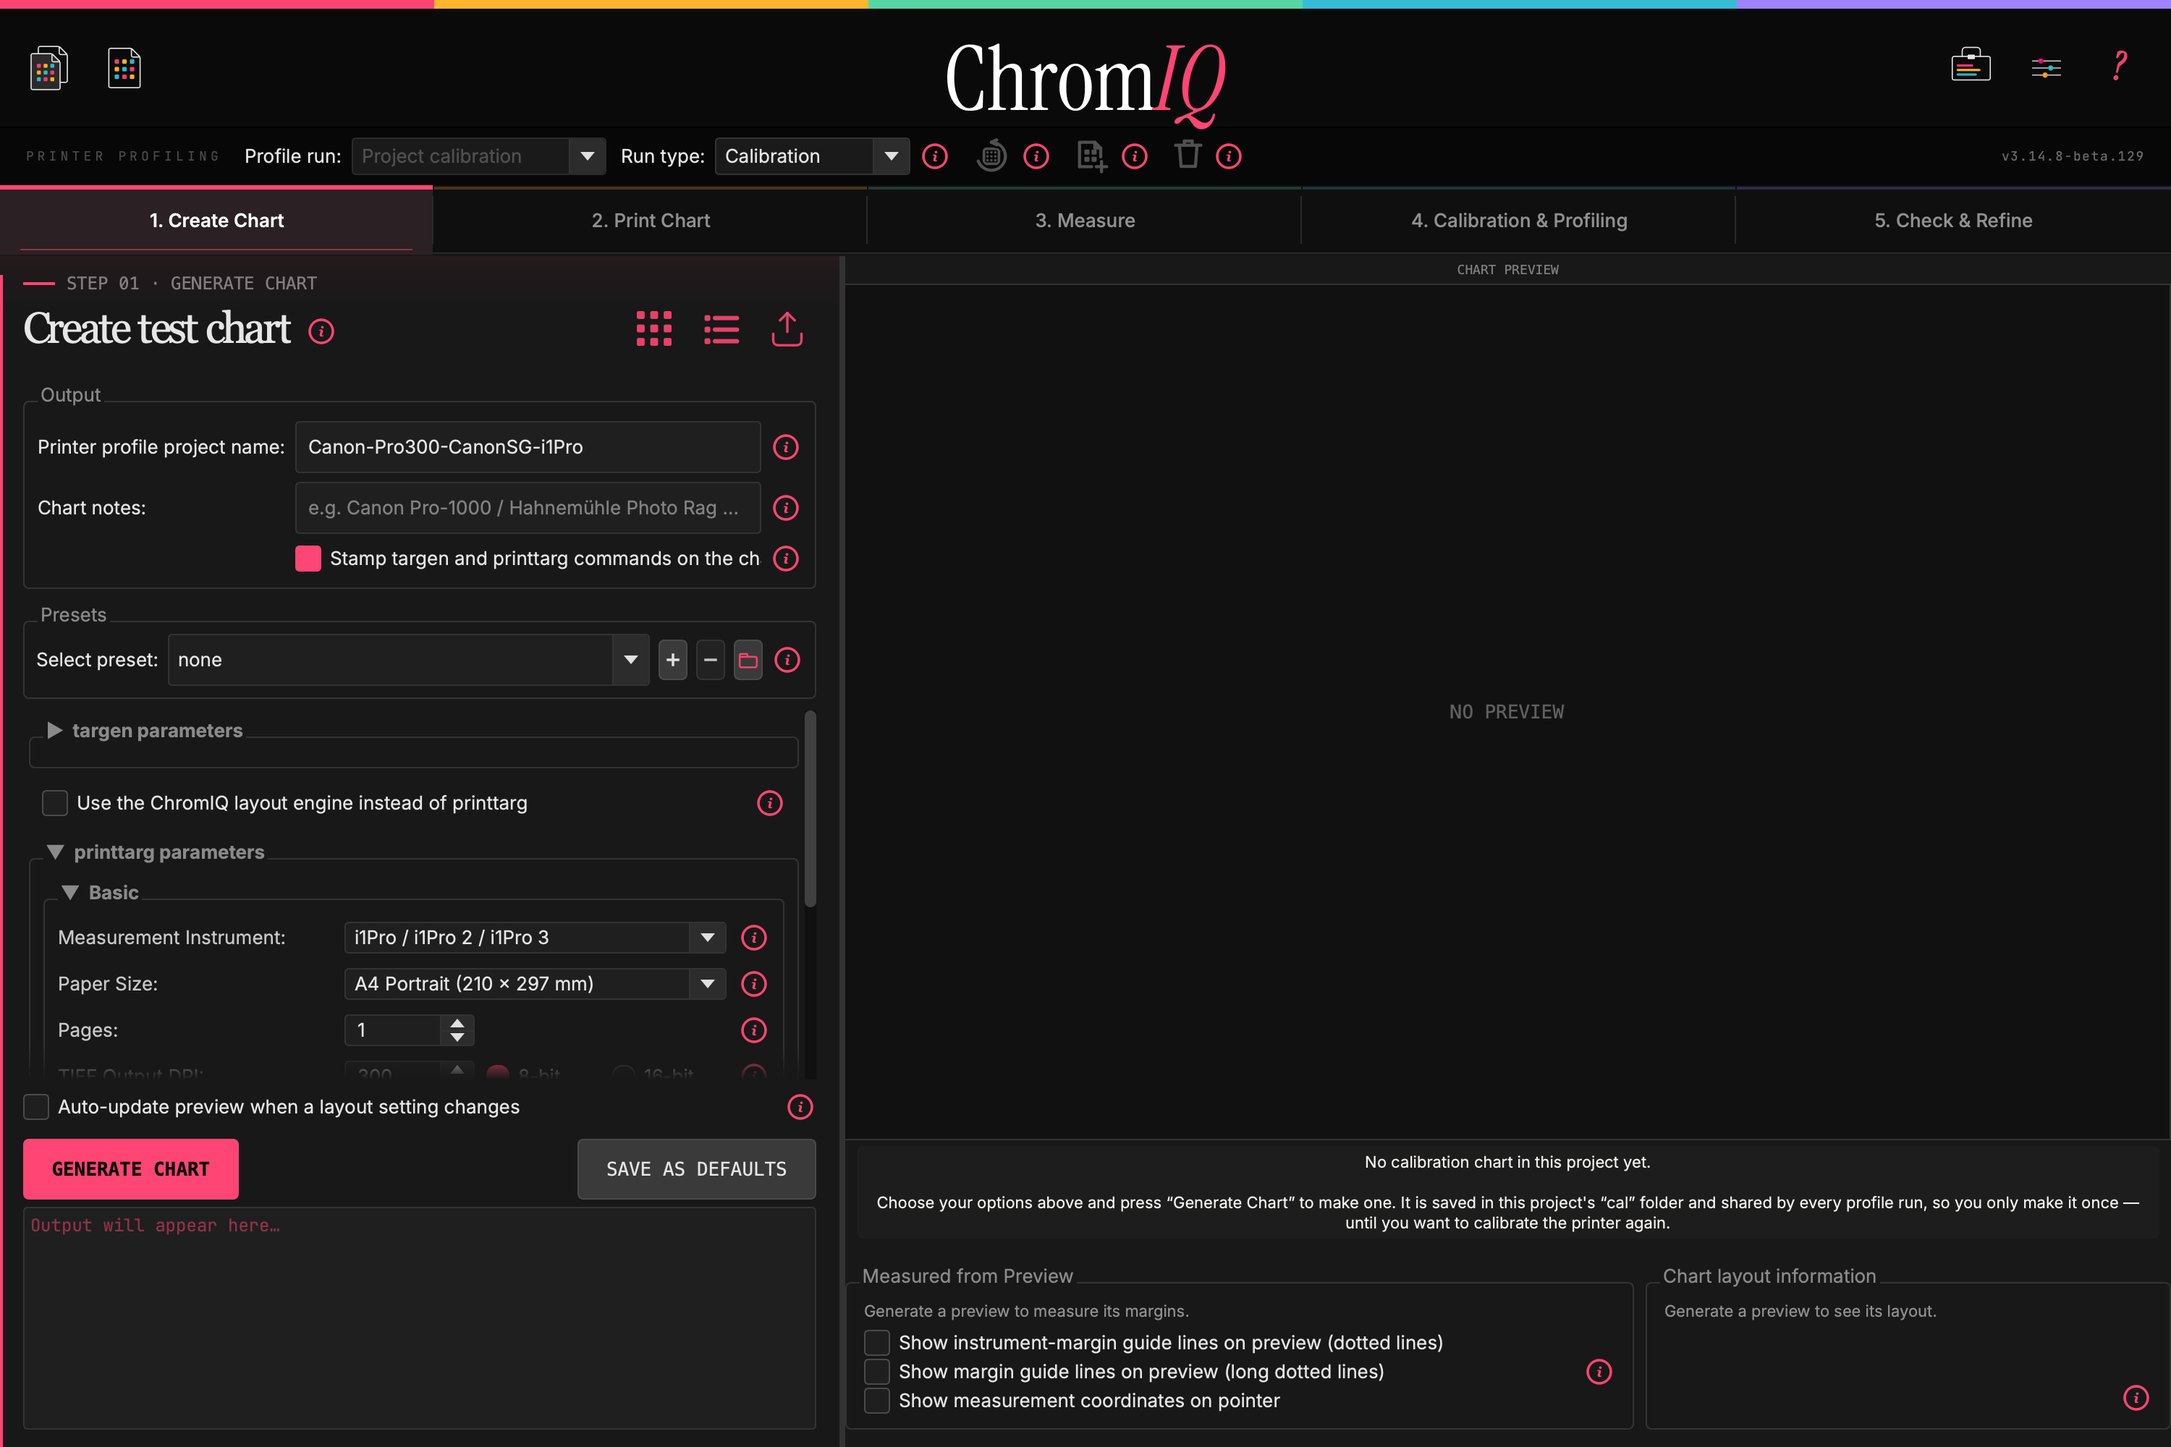
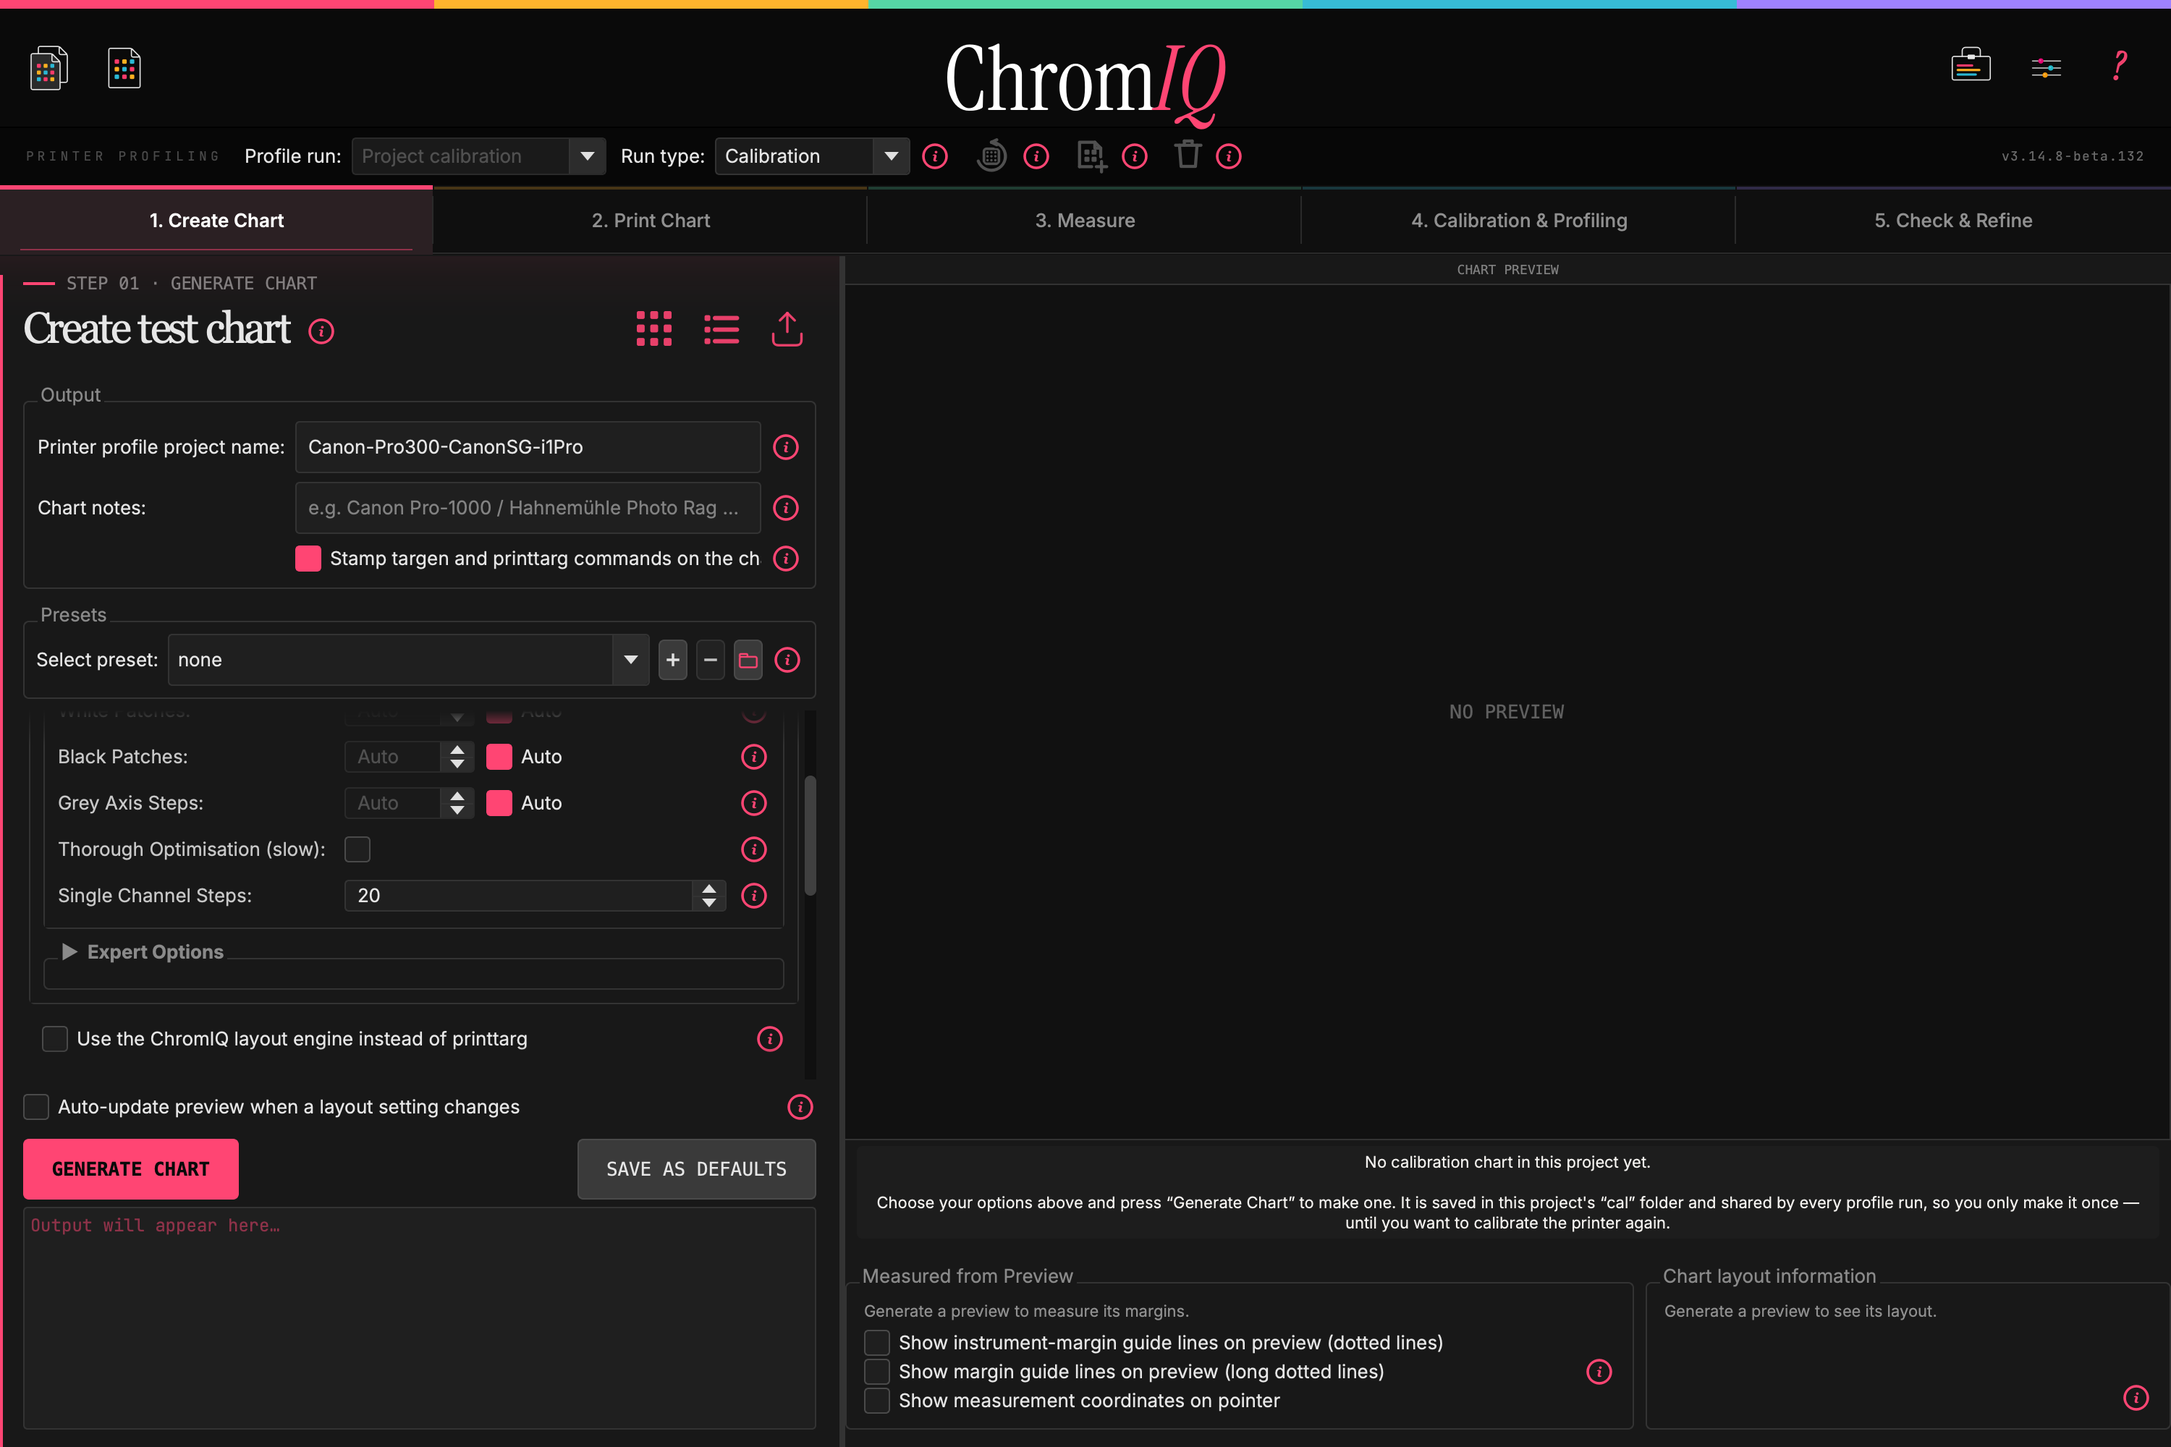
#130: calibration draft — three answers folded in, and the mockups re-rendered
Sebastian, 2026-08-04:

  - "the targen settings in create chart should not be collapsed so the user
    directly sees where to dial in the desired settings" — folded into §4.2 and
    shown in mockup 03, which now also scrolls to Single Channel Steps: opening
    the section is not enough on its own, because the row that decides the
    calibration sits below the fold.
  - The N-channel TIFF option: nothing sets it automatically, for any device
    type — §4a, with a recommendation and a new Q8, kept separate because it
    belongs with the device type rather than with calibration.
  - The load button still in the Create Calibration File module: not needed;
    Build Profile's own frame has been a plain label since the loader moved to
    the header. Folded into §4.5 and removed from mockup 06.

Questions 1, 2 and 6 are decided; 3, 4, 5 and 7 now carry a recommendation with
its reasoning, which is what he asked for. Still no application code.

Changed region(s): [[0.0, 0.496, 0.279, 0.744], [0.31, 0.496, 0.403, 0.744]]

diff --git a/scripts/mockup_calibration_run_type.py b/scripts/mockup_calibration_run_type.py
@@ -165,6 +165,28 @@ def chart_tab_as_calibration(win) -> None:
     tab._cal_target_grp.setVisible(False)
     # …but its knob preset still applies: this is what ticking it did.
     tab._on_cal_target_toggled(True)
+    # AND THE TARGEN SECTION OPENS. Sebastian, 2026-08-04: *"When run type is
+    # set to calibration then the targen settings in create chart should not be
+    # collapsed so the user directly sees where to dial in the desired
+    # settings."* It starts collapsed because most charts never touch the patch
+    # recipe — but a calibration chart is nothing BUT the patch recipe: the
+    # single-channel steps are the setting that decides the calibration.
+    if getattr(tab, "_manual_targen_grp", None) is not None:
+        tab._manual_targen_grp.set_collapsed(False)
+    pump(300)
+    # …and the row that decides the calibration is scrolled into view. Opening
+    # the section is not enough on its own: "Single Channel Steps" — the ramp
+    # this chart is — sits below the fold, which is the part of his point that
+    # only shows up in a picture.
+    from PyQt6.QtWidgets import QAbstractScrollArea
+    for pw in tab._manual_widgets.get("targen", []):
+        if pw.flag == "-s":
+            node = pw.parentWidget()
+            while node is not None and not isinstance(node, QAbstractScrollArea):
+                node = node.parentWidget()
+            if node is not None:
+                node.ensureWidgetVisible(pw, 60, 140)
+            break
     for f in (getattr(tab, "_manual_target_name_edit", None),
               getattr(tab, "_target_name_edit", None)):
         if f is not None:
@@ -262,6 +284,15 @@ def profile_tab(win, *, target: str) -> None:
         p._switch_cal_mode(1)                    # printcal
         p._header.set_texts("STEP 04 · CREATE CALIBRATION FILE",
                             "Calibration")
+        # The in-section loader goes, as it already has everywhere else.
+        # Sebastian, 2026-08-04: *"in the screenshot that show the create
+        # calibration file module there is still the loading button / icon in
+        # the measurement data section. Is this still needed here as we moved
+        # the button out of this section for all other tabs…?"* It is not: the
+        # header's loader is the one button, and Build Profile's own frame is
+        # already just a label (tab_profile.py:451-458).
+        if getattr(p, "_pc_load_btn", None) is not None:
+            p._pc_load_btn.setVisible(False)
     else:
         p._cal_create_btn.setVisible(False)
         p._cal_profile_btn.setVisible(True)

diff --git a/docs/design/calibration_run_type.md b/docs/design/calibration_run_type.md
@@ -1,6 +1,8 @@
 # Calibration as a Run type — feasibility analysis and design draft
 
-> **Status:** DRAFT for review. No code has been written. Requested by Sebastian
+> **Status:** DRAFT. No code has been written. **Questions 1, 2 and 6 are
+> decided** (Sebastian, 2026-08-04); 3, 4, 5 and 7 carry a recommendation
+> awaiting his word, and 8 is new. See §9. Requested by Sebastian
 > on [issue #130](https://github.com/itsab1989/ChromIQ/issues/130), 2026-08-04:
 > *"I wonder if it would be possible to offer a third 'calibration' run type in
 > the bar — only when calibration options are turned on."*
@@ -203,6 +205,15 @@ Profile run: [ Project calibration ▾ ]   Run type: [ Calibration ▾ ]   ⓘ
 - The calibration knob preset (`-f 0 -e 0 -B 0 -s 20`, `-G` off, `-r` on) moves
   from the checkbox's handler to the run-type switch, unchanged, and still
   restores the previous values when the target changes back.
+- **The "targen parameters" section opens.** It starts collapsed
+  (`ui/tabs/tab_chart.py:2426-2428`) because most charts never touch the patch
+  recipe — but a calibration chart *is* the patch recipe: **Single Channel
+  Steps** is the ramp being printed, and it decides how finely the calibration
+  can describe each ink. Sebastian, 2026-08-04: *"the targen settings in create
+  chart should not be collapsed so the user directly sees where to dial in the
+  desired settings."* Opening it is not quite enough on its own — that row sits
+  below the fold — so the panel also scrolls to it, which is what mockup 03
+  shows.
 - `_resolve_target_chart` gains a third branch returning `cal/`'s `.ti2`, `.ti1`
   and TIFFs — which **fixes D3 for free**: preview, Print and Measure all flow
   from that one function.
@@ -250,6 +261,17 @@ Implemented in `TabProfile.set_calibration_mode` / `_switch_cal_mode`
 (`ui/tabs/tab_profile.py:628-652`) by hiding rather than disabling: a module
 that cannot apply to the selected target is noise, and the header already
 re-titles itself per mode.
+
+**The Measurement Data frame loses its own load button.** Everywhere else the
+loader moved to the header's upper-right — Build Profile's frame is already just
+a label saying which file is selected (`ui/tabs/tab_profile.py:451-458`, *"The
+load + reveal buttons now live in the header's upper-right"*). The Create
+Calibration File module is the one place that kept an in-section loader
+(`_pc_load_btn`, `:821-827`). Sebastian, 2026-08-04: *"Is this still needed here
+as we moved the button out of this section for all other tabs and the build
+profile module in this tab as well?"* It is not — the header's loader loads the
+calibration measurement while this module is on screen, and the frame says which
+file that is. Mockup 06 shows it gone.
 
 **Not hidden, but explained:** if the user is in a Calibration target and tab 4
 would be empty of anything actionable (no cal `.ti3` measured yet), the panel
@@ -335,6 +357,33 @@ chart and its printed pages" · "• the calibration measurement of {c} patches"
 > file: make the calibration chart, print it, measure it, then create the .cal
 > from those readings. It is not a profile run — nothing is built from it — but
 > every profile run in the project can use its result.
+
+---
+
+## 4a. The N-channel TIFF option — asked in the mockups
+
+Sebastian, seeing it beside `-K` and `-I` in mockup 04: *"Is this (in general)
+automatically enabled when the user creates charts for cmy+n devices?"*
+
+**No. Nothing sets it.** `-N` is an expert checkbox in the printtarg panel
+(`data/parameters.yaml:868-885`), `default: false`, and no code path keys it to
+anything — the only automatic values ChromIQ writes into that panel are the
+calibration preset and the `.cal` prefill. A user who picks **Device Type =
+"CMYK + Orange + Green"** (targen `-d9`) gets a chart whose TIFF cannot carry
+those extra inks unless they know to tick a box in Expert Options.
+
+What the flag does, from the source: *"-N   Use TIFF alpha N channels more than
+4"* (printtarg.c:2958) — the extra inks ride in the TIFF's alpha slots, which
+only a driver or RIP expecting that layout can read.
+
+**Recommendation — worth doing, but not as part of this feature.** It belongs
+with the device type, not with calibration: tick `-N` automatically when targen's
+Device Type has more than four channels (`-d6` and above), leave it editable, and
+say in the tooltip that ChromIQ set it because of the device type. The reason to
+keep it separate is that it is not obviously right for everyone: a >4-ink chart
+printed through ChromIQ's own PostScript path is RGB, so the flag would be set
+for a file that does not need it. **This is Q8 below** — it needs your answer
+before anything changes, and nothing in the calibration design depends on it.
 
 ---
 
@@ -458,31 +507,60 @@ new persistence.
 
 ---
 
-## 9. Open questions — answers needed before any code
+## 9. Decisions — answered 2026-08-04, with the reasoning kept
 
-1. **The name.** "Calibration" as a Run type value, or "Printer calibration"?
-   The Dictionary distinguishes calibration from profiling already; the longer
-   label widens the combo for every language.
-2. **Retiring the "Create chart for calibration" checkbox** — replace it
-   outright (recommended: two controls for one state is exactly the confusion
-   this feature removes), or keep it for one release as a synonym?
-3. **Restore Used Chart for a calibration** (E9): out of the first version, or
-   worth adding `cal/chart/` snapshots at the same time?
-4. **When the preference is off and a project has a `cal/`** — say nothing (the
-   current behaviour), or mention in the file guide that the project carries a
-   calibration the interface is currently hiding?
-5. **Should a run record which `.cal` it was built with?** Nothing does today.
-   It would make "this profile was built on calibration X" answerable, and it is
-   a `RunMeta` field plus a migration — worth its own decision.
-6. **D1 as a separate fix.** The archive-instead-of-delete fix is small,
-   independent, and protects users *now*. Ship it before the feature, or as part
-   of it?
-7. **D4 — what should the prefill do?** Fill both and leave both off (the user
-   picks), or switch **-K** on deliberately and say so? And is re-titling tab 4's
-   header enough to show which target its modules belong to, given the bar is
-   not on that tab?
+Sebastian answered 1, 2 and 6 outright and asked for a recommendation on the
+rest. Recommendations are marked **R**; they stand unless he says otherwise.
 
----
+**1 · The label is "Calibration."** ✅ *Decided.* Short enough not to widen the
+combo in any language, and it matches the Dictionary entry and the folder name.
+
+**2 · The "Create chart for calibration" checkbox is retired.** ✅ *Decided.*
+Two controls for one state is the confusion this feature removes; `cal_target`
+is transient, so nothing needs migrating. Its tooltip — which still promises
+`cal_` filename prefixes that #127 removed — goes with it (§14, item 6).
+
+**3 · Restore Used Chart for a calibration — R: include it, in the first
+version.** The chart snapshot is what makes the button work, and the helper
+already exists (`workflow/verify_chart_snapshot.py`); a calibration chart would
+be snapshotted at the same moment as any other — when its measurement starts.
+Two reasons to do it now rather than later: the calibration chart is the one
+chart whose loss is *unrecoverable today* (D3 — it cannot even be reloaded), and
+leaving it out means the button needs an exception to explain, which costs a
+sentence in a tooltip every user reads and buys nothing.
+
+**4 · A project with a `cal/` while the preference is off — R: say it in the
+file guide, and nowhere else.** The interface should not advertise a mode the
+user has switched off; but "where are my files?" must always be answerable, and
+the file guide is exactly where that is asked. With D6 fixed the hidden
+calibration no longer *does* anything, so there is nothing to warn about — only
+something to find.
+
+**5 · Recording which `.cal` a run was built with — R: yes, one `RunMeta`
+field.** It is the only way to answer "was this profile built on the calibration
+that is in the project now?" once a calibration has been replaced — and with D1
+fixed the older ones live on in `cal/old/<date>/`, so a stored stem stays
+resolvable instead of dangling. Migration is nothing: absent means unknown,
+which is the honest state of every run built before it. It also makes a future
+warning possible ("this run was built on a calibration that has since been
+replaced") without another schema change. Cost: a field, one write at build
+time, one line in the file guide.
+
+**6 · D1 ships with the feature, not before it.** ✅ *Decided* — "all together
+when we build it."
+
+**7 · The `.cal` prefill — R: gate it on the preference, fill both fields,
+switch neither on, and say so.** Three parts, one principle: ChromIQ may offer,
+not choose. `-K` reprints every patch value through the calibration and `-I`
+only records it — that is a decision about what lands on paper, and the user is
+the one who knows whether their printer or RIP applies curves itself. Switching
+`-I` on silently (D4) makes that choice for them; doing it while calibration
+options are switched off (D6) makes it invisibly. The status line becomes:
+*"Calibration file found: {name} — filled into the -K and -I fields below.
+Switch on the one you want; they cannot both be used at once."*
+
+**8 · NEW — should `-N` follow the device type?** See §4a. Not part of this
+feature, and it needs a decision of its own before anything changes.
 
 ## 10. Rating of this design
 
@@ -521,10 +599,10 @@ pixel. Re-run it after any change to the design.
 |---|---|
 | `01-bar-today-profiling.png` | The bar as it is today, for comparison. |
 | `02-bar-proposed-calibration.png` | Run type = **Calibration**: the fixed, disabled "Project calibration", no Verification box, the three run buttons greyed with reasons. |
-| `03-create-chart-calibration.png` | The whole window in a Calibration target — the bar, the retired checkbox, and the empty-preview guidance written for this case. |
+| `03-create-chart-calibration.png` | The whole window in a Calibration target — the bar, the retired checkbox, the empty-preview guidance written for this case, and the **targen section open at "Single Channel Steps"**, the setting that decides the calibration. |
 | `04-create-chart-prefill.png` | **Today's** prefill, unmodified: the status line, and `-I` already switched on with `-K` off — the evidence for D4, and the clipped `-I` label of D5. |
 | `05-replace-warning.png` | The §4.7 data-safety window, rendered as the real `QMessageBox` the §4 windows use. |
-| `06-tab4-calibration-run.png` | Tab 4 in a Calibration target: **CREATE CALIBRATION FILE** alone, header re-titled. |
+| `06-tab4-calibration-run.png` | Tab 4 in a Calibration target: **CREATE CALIBRATION FILE** alone, header re-titled, and the Measurement Data frame **without its own load button** — the header's loader is the one button, as everywhere else. |
 | `07-tab4-profiling-run.png` | Tab 4 in a Profiling target with calibration options on: **BUILD PROFILE** + **APPLY CALIBRATION**. |
 
 Two of this document's findings came out of building them rather than out of
